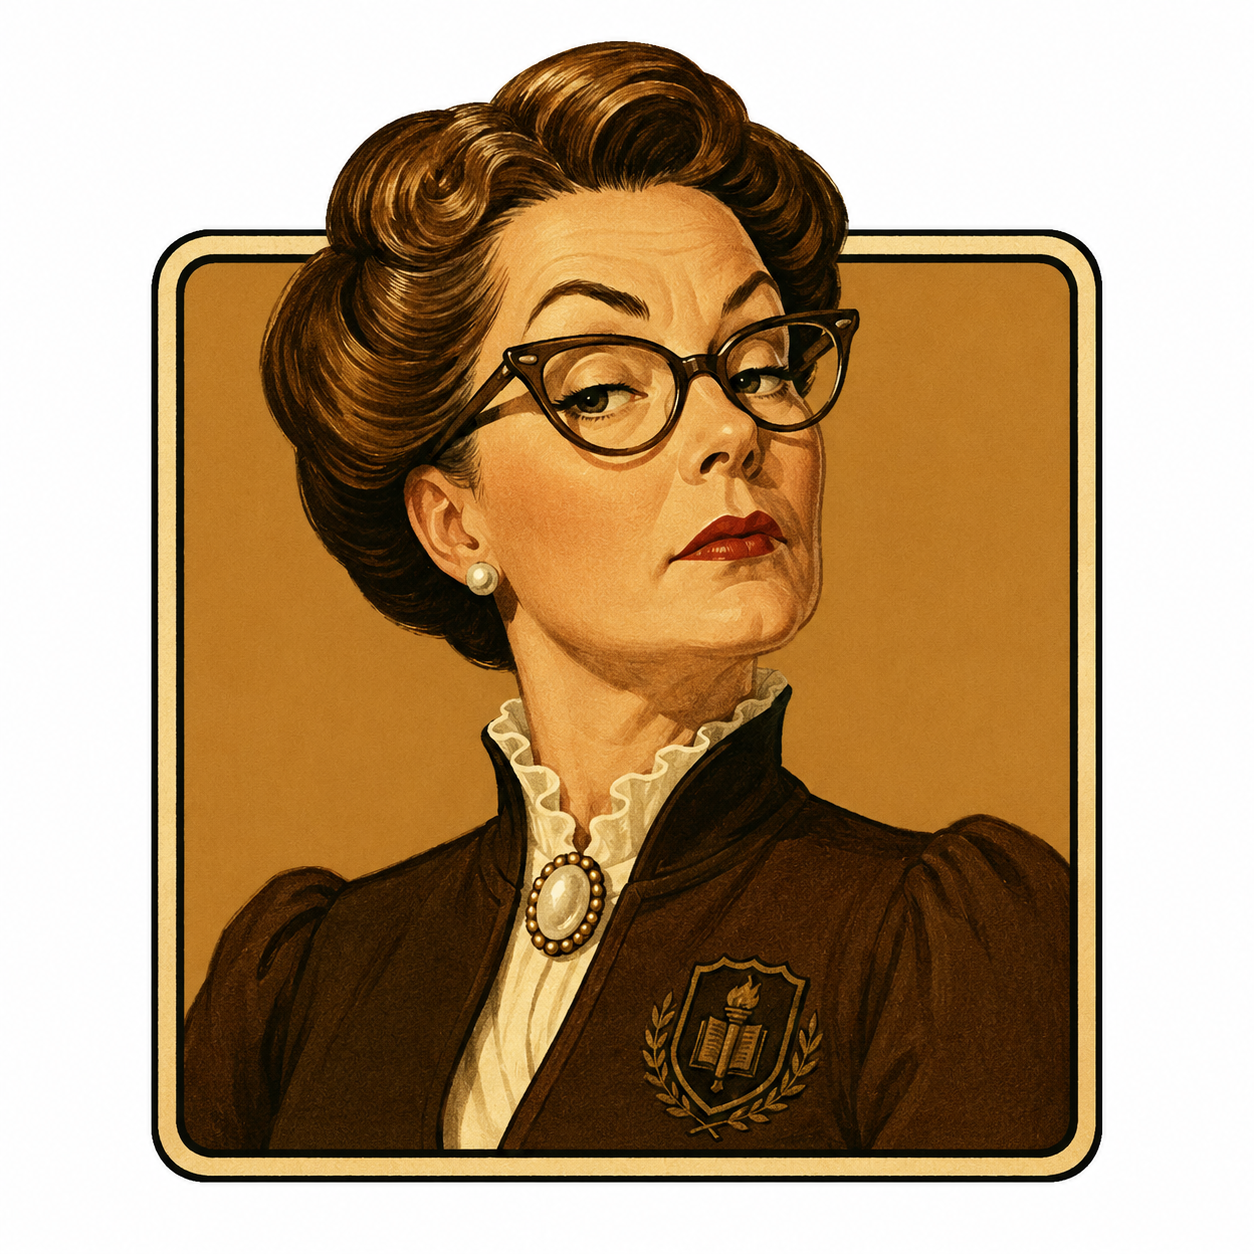
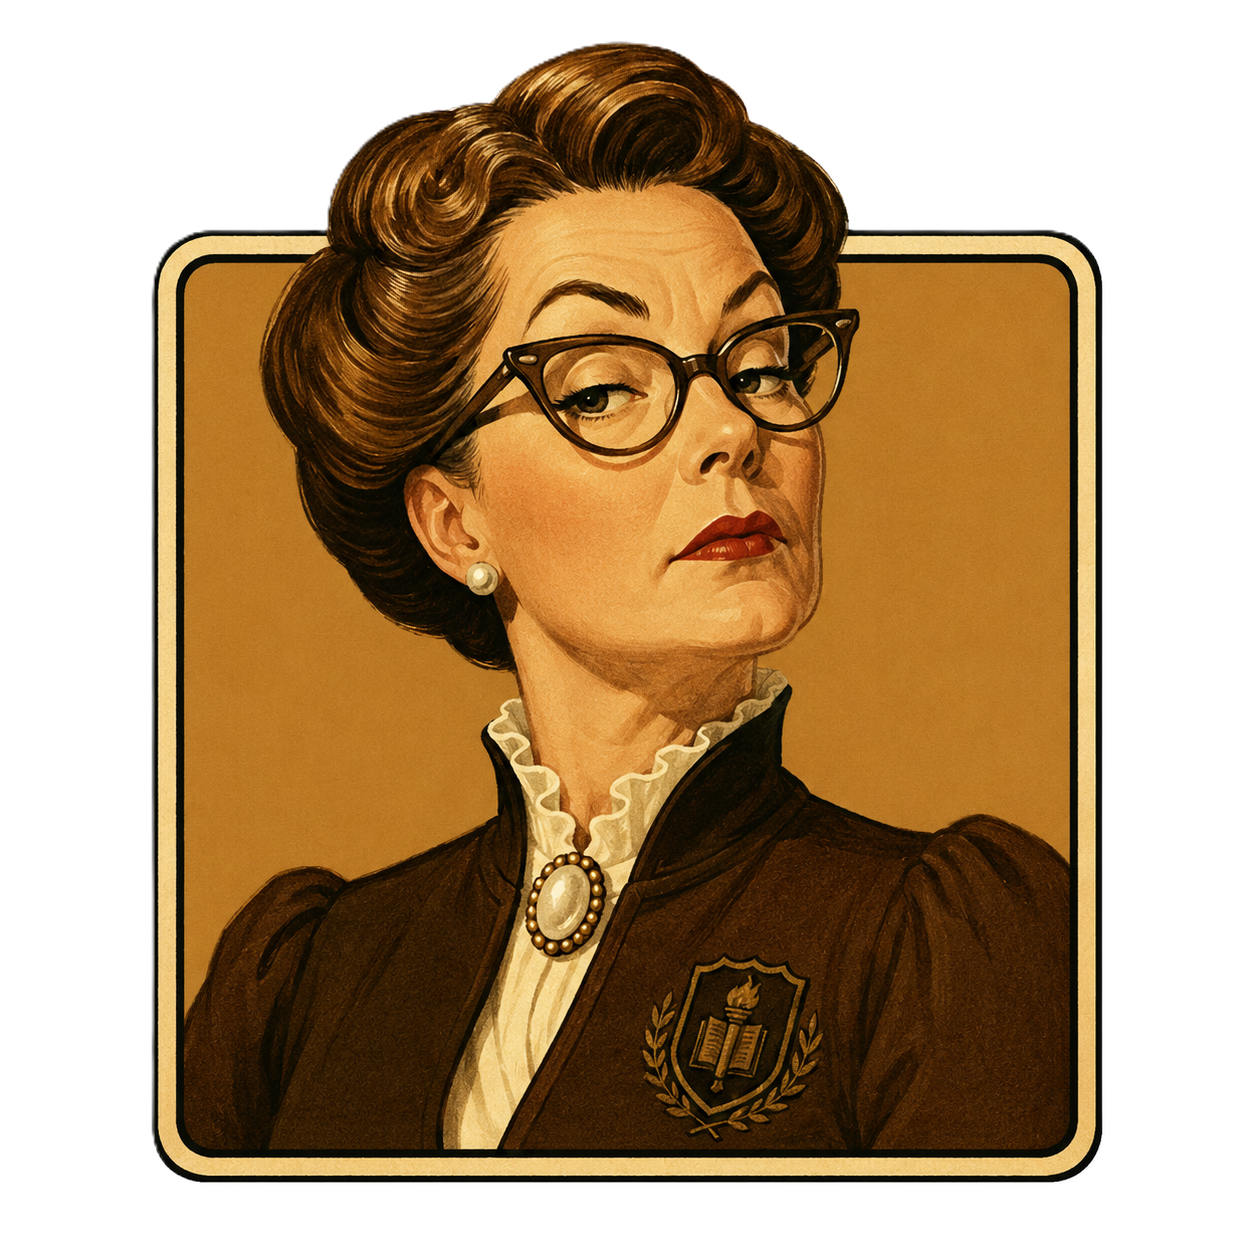
Add Saffron/Hazel override art; line-break the reveal pop-up title
- Add the new Señora Saffron portrait (named suspect-saffron.png so the
  loader matches it) and the refreshed Headmistress Hazel art.
- In the "<X> has shown a card to <Y>, disproving the suggestion." pop-up,
  break the line after the comma.

diff --git a/client/src/components/GamePopups.tsx b/client/src/components/GamePopups.tsx
@@ -177,7 +177,9 @@ export function RevealModal({
     <div className="sp__backdrop" onClick={onClose}>
       <div className="sp sp--end" onClick={(e) => e.stopPropagation()}>
         <div className="popup__title">
-          {highlightChat(`${responderName} has shown a card to ${suggesterName}, disproving the suggestion.`)}
+          {highlightChat(`${responderName} has shown a card to ${suggesterName},`)}
+          <br />
+          {highlightChat('disproving the suggestion.')}
         </div>
         <div className="sp__cards">{revealedCard ? <Card card={revealedCard} /> : <CardBack />}</div>
         <button className="btn btn--primary" onClick={onClose}>